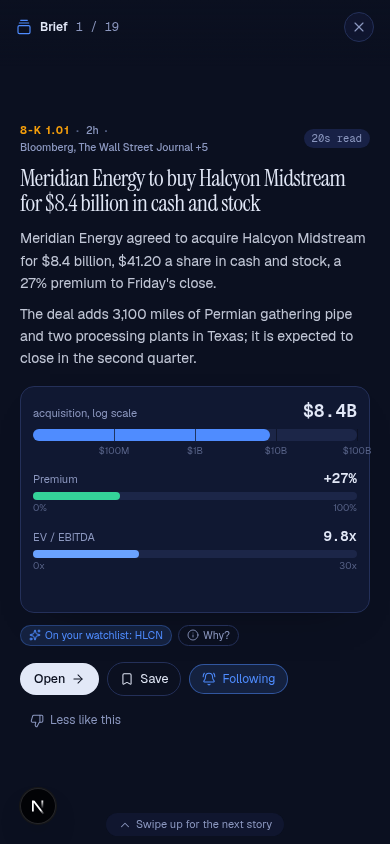
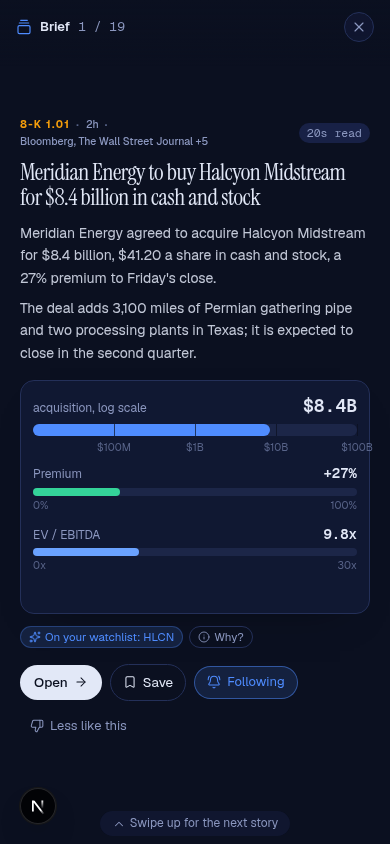
Newsroom: phone Brief button above the tab bar, chart ticks inside the frame, fresh screenshots
Desktop at 1440 and phone at 390, light and dark, taken from fictional stories in a local harness
after the merge with main.

Claude-Session: https://claude.ai/code/session_01DLi1UV4P4ZkRWF1eatdNd7

diff --git a/src/components/news/Newsroom.tsx b/src/components/news/Newsroom.tsx
@@ -114,7 +114,7 @@ export function Newsroom({ initialView = "today", initialStory = null, initialOv
 
   return (
     <MotionContext value={motionLevel}>
-      <div className="nr flex h-full flex-col" data-look={look} data-motion={motionLevel}>
+      <div className="nr relative flex h-full flex-col" data-look={look} data-motion={motionLevel}>
         <header className="glass z-20 border-b border-line bg-bg/85 px-4 py-2.5">
           <div className="flex flex-wrap items-center gap-x-4 gap-y-2">
             <div className="flex min-w-0 items-center gap-2">
@@ -219,9 +219,9 @@ export function Newsroom({ initialView = "today", initialStory = null, initialOv
           )}
         </div>
         <StoryPeek id={peek} onClose={() => setPeek(null)} onStep={step} onChanged={() => feed.reload()} />
-        {/* On a phone, Brief mode is one tap away. */}
+        {/* On a phone, Brief mode is one tap away, just above the tab bar (the pane ends where the bar starts). */}
         {data && stories.length > 0 && !overlay && view === "today" && (
-          <button type="button" onClick={() => setOverlay("brief")} className="fixed bottom-5 right-4 z-30 inline-flex items-center gap-2 rounded-full bg-accent px-4 py-2.5 text-[13px] font-semibold text-accent-fg shadow-float md:hidden" aria-label="Open Brief mode">
+          <button type="button" onClick={() => setOverlay("brief")} className="absolute bottom-4 right-4 z-30 inline-flex items-center gap-2 rounded-full bg-accent px-4 py-2.5 text-[13px] font-semibold text-accent-fg shadow-float md:hidden" aria-label="Open Brief mode">
             <Icon name="GalleryVerticalEnd" className="h-4 w-4" />Brief
           </button>
         )}

diff --git a/src/components/news/StoryCharts.tsx b/src/components/news/StoryCharts.tsx
@@ -111,7 +111,7 @@ export function DealChart({ valueUsd, premium, evEbitda, label }: { valueUsd: nu
           <div className="flex items-baseline justify-between gap-2 text-[11px] text-muted"><span>{label ?? "Deal value"}, log scale</span><span className="num text-[18px] font-semibold text-fg">{fmtUsd(valueUsd)}</span></div>
           <div className="relative mt-1.5 h-3 rounded-full bg-line/60" onPointerEnter={() => setTip(`${fmtUsd(valueUsd)}: ${valueUsd >= 1e10 ? "a megadeal" : valueUsd >= 1e9 ? "a billion-dollar deal" : "a mid-market deal"}`)} onPointerLeave={() => setTip(null)}>
             <motion.div className="absolute inset-y-0 left-0 rounded-full bg-accent" style={{ width: animate ? undefined : `${share * 100}%` }} {...grow(share)} />
-            {ticks.map((t) => <span key={t.l} className="absolute top-full mt-1 -translate-x-1/2 text-[9.5px] text-faint" style={{ left: `${((Math.log10(t.v) - 7) / 4) * 100}%` }}>{t.l}</span>)}
+            {ticks.map((t) => <span key={t.l} className={`absolute top-full mt-1 text-[9.5px] text-faint ${t.v >= 1e11 ? "-translate-x-full" : "-translate-x-1/2"}`} style={{ left: `${((Math.log10(t.v) - 7) / 4) * 100}%` }}>{t.l}</span>)}
             {ticks.map((t) => <span key={`l${t.l}`} className="absolute inset-y-0 w-px bg-bg/70" style={{ left: `${((Math.log10(t.v) - 7) / 4) * 100}%` }} />)}
           </div>
         </div>

diff --git a/docs/newsroom.md b/docs/newsroom.md
@@ -155,6 +155,9 @@ for energy; jobless claims for markets desks; watchlist earnings dates).
 
 Everything else (the front page, globe, charts, timelines, maps, Brief mode, the recap, the browser
 briefing, rule-based matches, five follows, public pages) is free. Administrators can use all of it.
+The three metered features record their spend through `recordUsage`, so they set `inAiAllowance` and
+count against the plan's AI allowance and credits (docs/pricing.md). Public pages, link previews, the
+sitemap and share links take their address from `siteUrl()` / `siteLink()` (`NEXT_PUBLIC_SITE_URL`).
 
 ![Brief mode on a phone](newsroom/brief-phone-dark.png)
 
@@ -248,7 +251,7 @@ JSON-LD, a generated link preview (`opengraph-image.tsx`: the headline beside a 
 data), share buttons, and an invitation to sign up (signing in returns to the story). The last week's
 notable stories are in the sitemap, and `/news` is open to crawlers.
 
-![A public story page](newsroom/public-desktop-light.png)
+![A public story page](newsroom/public-phone-dark.png)
 
 ## Editions
 
@@ -276,6 +279,6 @@ always off when the system asks for reduced motion.
 |---|---|
 | ![Front page, desktop, dark](newsroom/front-desktop-dark.png) | ![Front page, phone, light](newsroom/front-phone-light.png) |
 | ![The globe](newsroom/globe-desktop-dark.png) | ![A story: chart, deal and "why you're seeing this"](newsroom/story-desktop-light.png) |
-| ![Brief mode on a phone](newsroom/brief-phone-dark.png) | ![A public story page](newsroom/public-desktop-light.png) |
+| ![Brief mode on a phone](newsroom/brief-phone-dark.png) | ![A public story page](newsroom/public-phone-dark.png) |
 
 Taken from fictional stories in a local harness (no real companies or figures).
